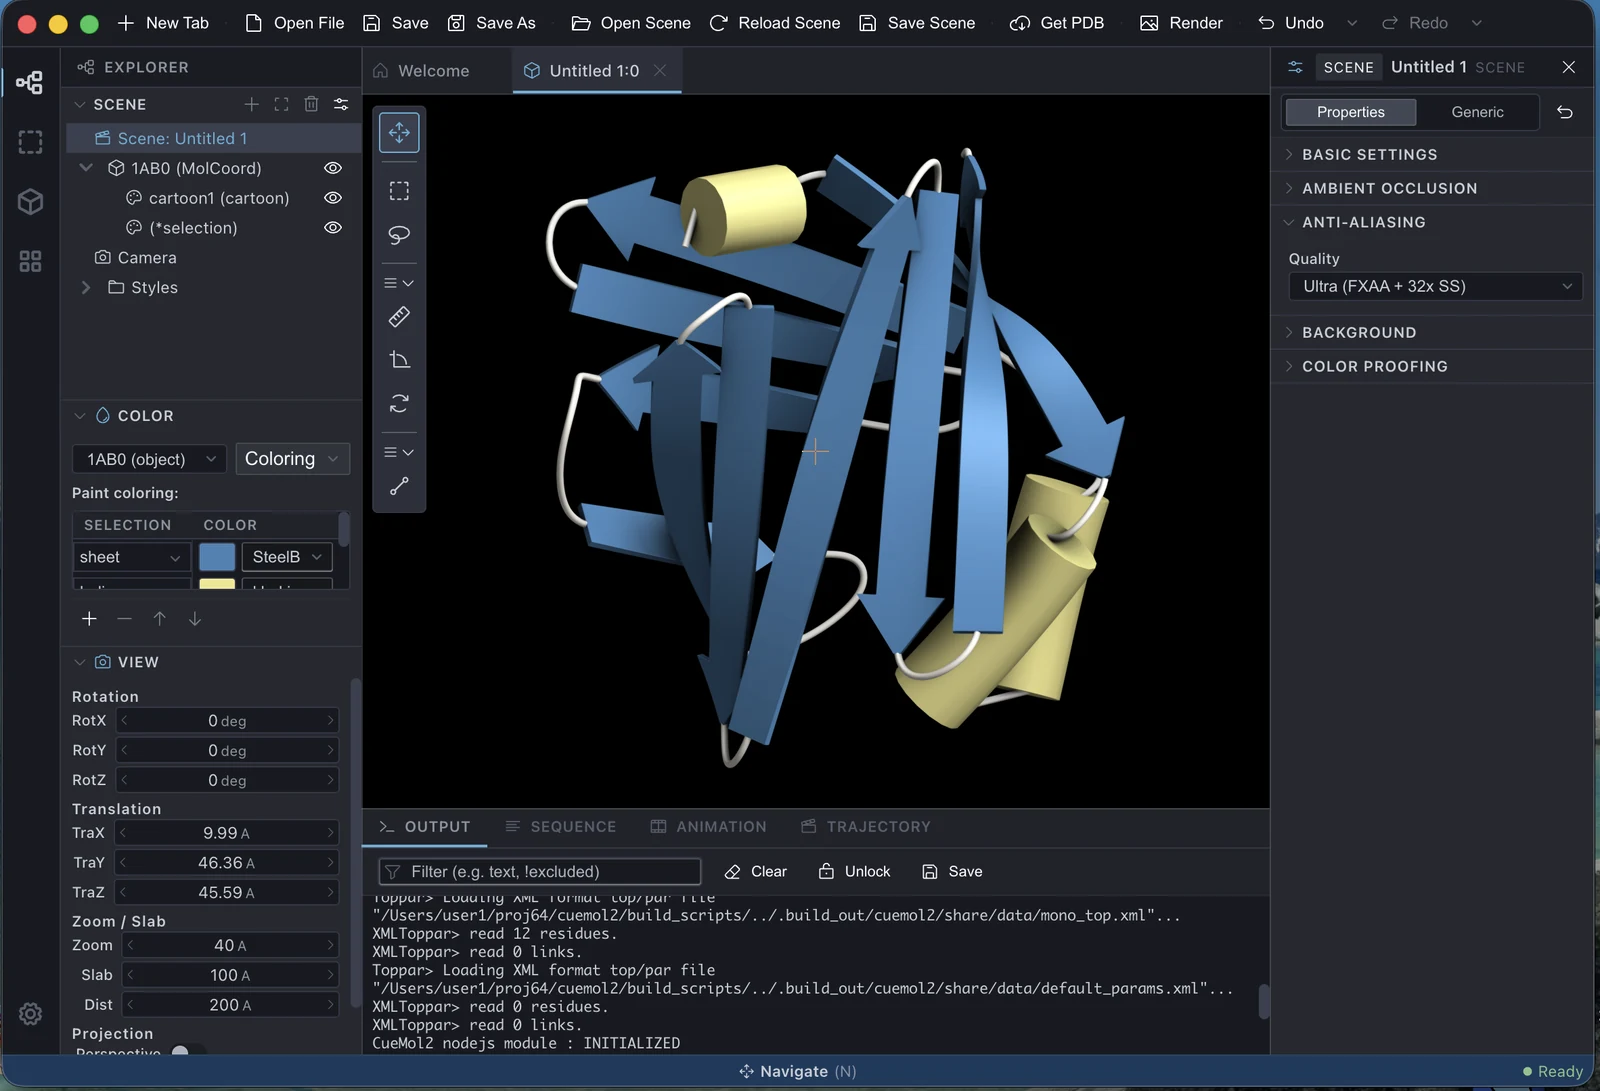
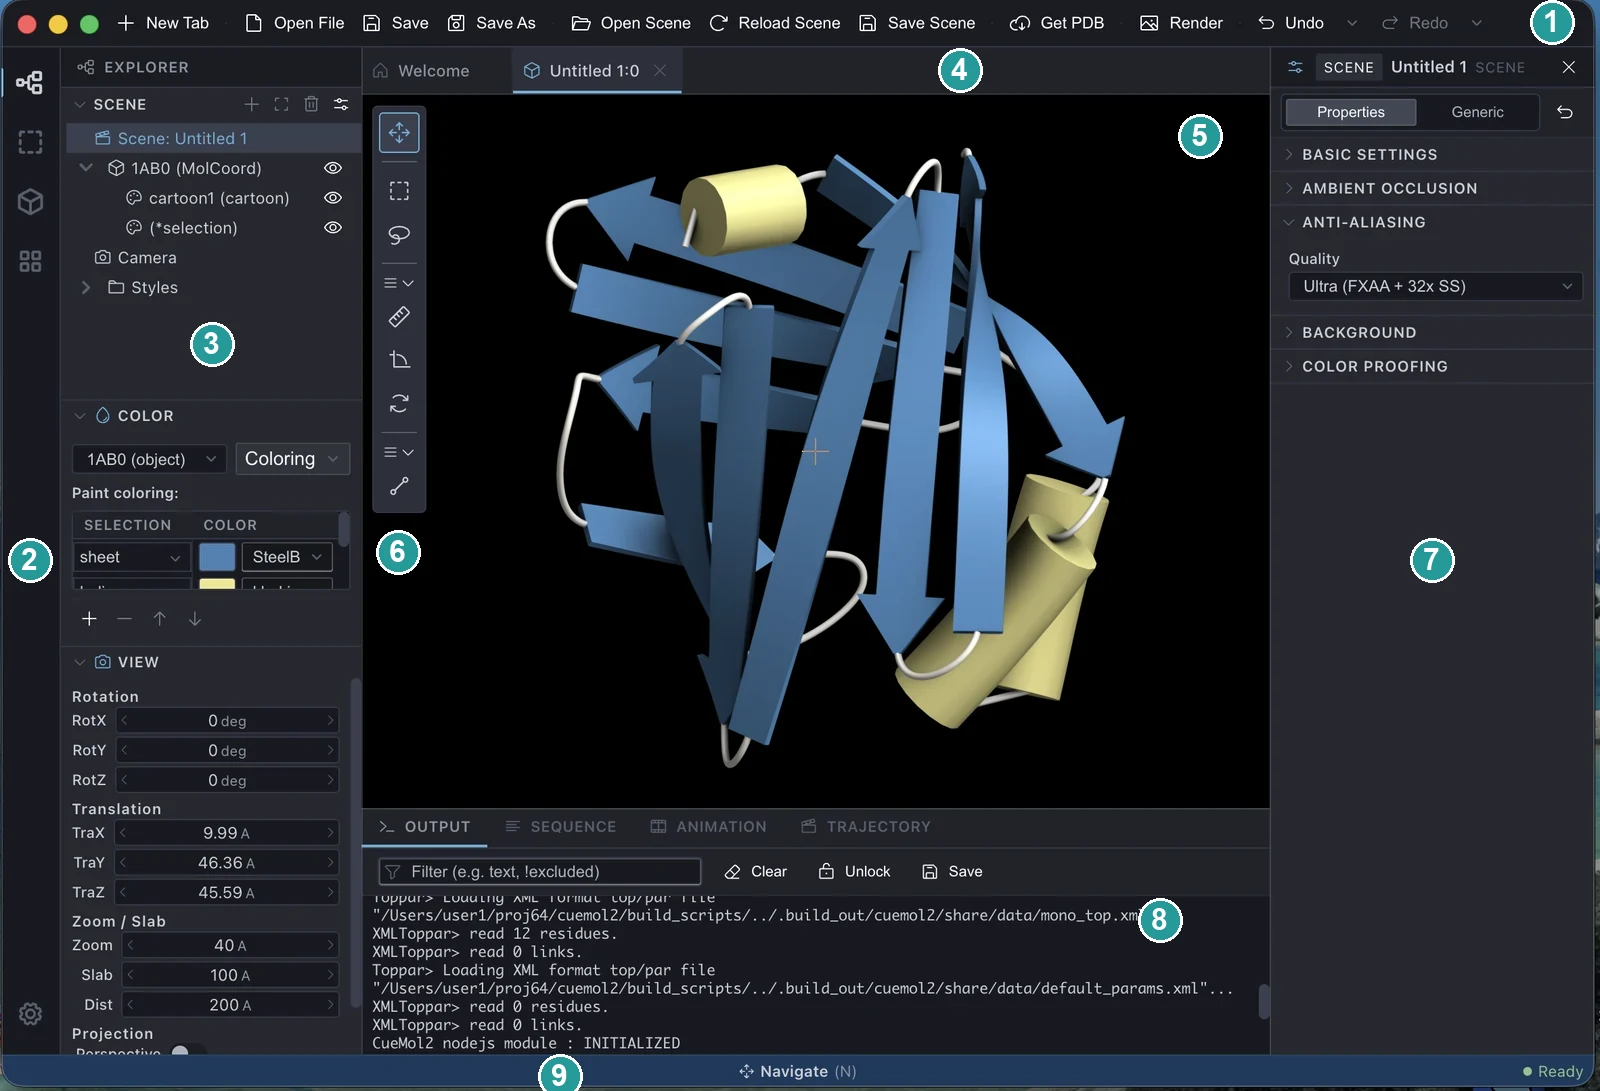
Replace the ASCII layout diagram with a numbered screenshot
Draw numbered badges (site teal, white ring) directly on the main-window
screenshot and key the region table to them, dropping the ASCII-art
diagram. The menu bar keeps an unnumbered row since the macOS system menu
bar is outside the captured window.

diff --git a/docs/ja/ui/index.md b/docs/ja/ui/index.md
@@ -3,40 +3,24 @@
 CueMol3 のメインウィンドウは、単一のウィンドウにすべての操作面をまとめた構成です。
 CueMol2 のように機能ごとに別ウィンドウが開くことはありません。
 
-![CueMol3 メインウィンドウの全景](../../assets/images/ui/main-window.webp){ .on-glb }
-
 ## 領域の名称
 
-```
-┌──────────────────────────────────────────────────────────────┐
-│ ツールバー                                                    │
-├──┬──────────────┬──────────────────────────┬─────────────────┤
-│ア│              │ タブバー                  │                 │
-│ク│  サイドパネル  ├──────────────────────────┤ プロパティ       │
-│テ│  (左)         │                          │ インスペクタ     │
-│ィ│              │  レンダリングビュー (3D)   │ (右)            │
-│ビ│              │  ＋ツールパレット           │                 │
-│テ│              │                          │                 │
-│ィ│              ├──────────────────────────┴─────────────────┤
-│バ│              │ 下部パネル                                  │
-│ー│              │                                            │
-├──┴──────────────┴────────────────────────────────────────────┤
-│ ステータスバー                                                 │
-└──────────────────────────────────────────────────────────────┘
-```
+図中の番号が下表の # に対応します。
 
-| 領域 | 役割 | 詳細 |
-|---|---|---|
-| **メニューバー** | File / Edit などのメニュー。macOS では画面上部のシステムメニューバー、Windows / Linux ではウィンドウ内の上部にあります | [メニュー](../menu/index.md) |
-| **ツールバー** | よく使う操作 (新規タブ / ファイル操作 / Get PDB / Render / Undo・Redo) のボタン | [ツールバーとツールパレット](toolbar-tools.md) |
-| **アクティビティバー** | 左端の縦アイコン列。サイドパネルに表示する内容 (Explorer / Selection / Crystal など) を切り替えます。最下部の歯車は Settings タブを開きます | [サイドパネル](side-panels.md) |
-| **サイドパネル (左)** | アクティビティバーで選んだ用途のパネル群。シーンツリー・色設定・分子構造ツリーなど | [サイドパネル](side-panels.md) |
-| **タブバー** | 開いているシーン / ビュー、および Settings タブの切り替え。ドラッグで並べ替えできます | |
-| **レンダリングビュー** | 3D 表示の本体。マウス操作で視点を動かします | [レンダリングウィンドウ](rendering-window.md) / [マウス・トラックパッド操作](mouse-input.md) |
-| **ツールパレット** | 3D ビュー左端に浮かぶ縦のツールボタン列。視点操作 / 範囲選択 / 計測 / 結合編集のモードを切り替えます | [ツールバーとツールパレット](toolbar-tools.md) |
-| **プロパティインスペクタ (右)** | シーンツリーで選んだ要素の設定を表示・編集します。変更は 3D ビューに即座に反映されます | [プロパティインスペクタ](inspector.md) |
-| **下部パネル** | Output (ログ) / Sequence (配列) / Animation (タイムライン) / Trajectory (MD) のタブ | [下部パネル](bottom-panels.md) |
-| **ステータスバー** | 状態表示 | |
+![CueMol3 メインウィンドウの全景 (番号は下表に対応)](../../assets/images/ui/main-window.webp){ .on-glb }
+
+| # | 領域 | 役割 | 詳細 |
+|---|---|---|---|
+| 1 | **ツールバー** | よく使う操作 (新規タブ / ファイル操作 / Get PDB / Render / Undo・Redo) のボタン | [ツールバーとツールパレット](toolbar-tools.md) |
+| 2 | **アクティビティバー** | 左端の縦アイコン列。サイドパネルに表示する内容 (Explorer / Selection / Crystal など) を切り替えます。最下部の歯車は Settings タブを開きます | [サイドパネル](side-panels.md) |
+| 3 | **サイドパネル (左)** | アクティビティバーで選んだ用途のパネル群。シーンツリー・色設定・分子構造ツリーなど | [サイドパネル](side-panels.md) |
+| 4 | **タブバー** | 開いているシーン / ビュー、および Settings タブの切り替え。ドラッグで並べ替えできます | |
+| 5 | **レンダリングビュー** | 3D 表示の本体。マウス操作で視点を動かします | [レンダリングウィンドウ](rendering-window.md) / [マウス・トラックパッド操作](mouse-input.md) |
+| 6 | **ツールパレット** | 3D ビュー左端に浮かぶ縦のツールボタン列。視点操作 / 範囲選択 / 計測 / 結合編集のモードを切り替えます | [ツールバーとツールパレット](toolbar-tools.md) |
+| 7 | **プロパティインスペクタ (右)** | シーンツリーで選んだ要素の設定を表示・編集します。変更は 3D ビューに即座に反映されます | [プロパティインスペクタ](inspector.md) |
+| 8 | **下部パネル** | Output (ログ) / Sequence (配列) / Animation (タイムライン) / Trajectory (MD) のタブ | [下部パネル](bottom-panels.md) |
+| 9 | **ステータスバー** | 状態表示 | |
+| — | **メニューバー** | File / Edit などのメニュー。macOS では画面上部のシステムメニューバーにあるため図には写っていません。Windows / Linux ではウィンドウ内の上部にあります | [メニュー](../menu/index.md) |
 
 ## タブ
 
